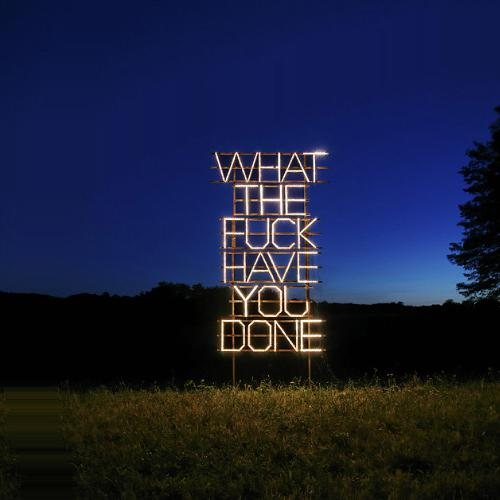
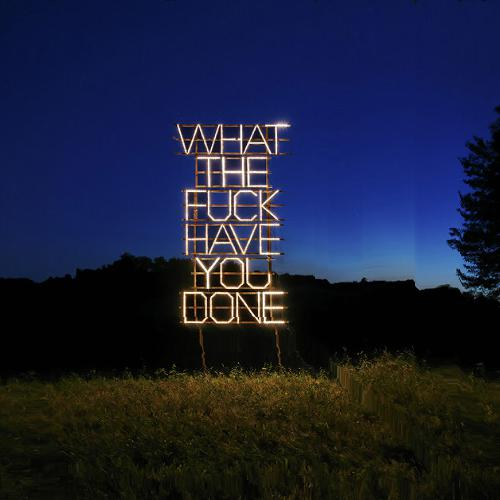
increasing image size improved

diff --git a/seam_carving.py b/seam_carving.py
@@ -9,41 +9,47 @@ class SeamCarver:
         self.image = Image.from_file(image_file)
         self.debug_animation = AnimationMaker()
 
-    def seam(self):
+    def seams(self, n):
         """
-        Finds the shortest path
+        Finds the n minimum seams in the image
+        :param n: the number of paths to be found
+        :return a list of Image objects, each containing the a path, sorted ascending
         """
         image = self.image.min_energy
-        seam_image = np.zeros((self.image.height, 1))
-        for i in reversed(range(0, self.image.height)):
-            if i == self.image.height - 1:
-                value = min(image[i, :])
-                j = np.where(image[i][:] == value)[0][0]
-            else:
-                if seam_image[i + 1, 0] == 0:
-                    tmp = [
-                        float("Inf"),
-                        image[i, seam_image[i + 1, 0]],
-                        image[i, seam_image[i + 1, 0] + 1]
-                    ]
-                elif seam_image[i + 1, 0] == self.image.width - 1:
-                    tmp = [
-                        image[i, seam_image[i + 1, 0] - 1],
-                        image[i, seam_image[i + 1, 0]],
-                        float("Inf")
-                    ]
+        seams_found = []
+        for iteration in range(n):
+            seam_image = np.zeros((self.image.height, 1))
+            for i in reversed(range(0, self.image.height)):
+                if i == self.image.height - 1:
+                    value = min(image[i, :])
+                    j = np.where(image[i][:] == value)[0][0]
                 else:
-                    tmp = [
-                        image[i, seam_image[i + 1, 0] - 1],
-                        image[i, seam_image[i + 1, 0]],
-                        image[i, seam_image[i + 1, 0] + 1]
-                    ]
-                j = seam_image[i+1, 0] + np.argmin(tmp) - 1
-            seam_image[i, 0] = j
-        return Image.from_image_array(array=seam_image, transposed=self.image.transposed)
+                    if seam_image[i + 1, 0] == 0:
+                        tmp = [
+                            float("Inf"),
+                            image[i, seam_image[i + 1, 0]],
+                            image[i, seam_image[i + 1, 0] + 1]
+                        ]
+                    elif seam_image[i + 1, 0] == self.image.width - 1:
+                        tmp = [
+                            image[i, seam_image[i + 1, 0] - 1],
+                            image[i, seam_image[i + 1, 0]],
+                            float("Inf")
+                        ]
+                    else:
+                        tmp = [
+                            image[i, seam_image[i + 1, 0] - 1],
+                            image[i, seam_image[i + 1, 0]],
+                            image[i, seam_image[i + 1, 0] + 1]
+                        ]
+                    j = seam_image[i+1, 0] + np.argmin(tmp) - 1
+                seam_image[i, 0] = j
+                image[i, j] = float("Inf")
+            seams_found.append(Image.from_image_array(array=seam_image, transposed=self.image.transposed))
+        return seams_found
 
     def cut_seam(self):
-        seam = self.seam()
+        seam = self.seams(1)[0]
         result = np.zeros((self.image.height, self.image.width - 1, self.image.dim))
         for i in range(0, self.image.dim):
             for j in range(0, self.image.height):
@@ -63,8 +69,7 @@ class SeamCarver:
 
         return Image.from_image_array(array=result, transposed=self.image.transposed)
 
-    def add_seam(self):
-        seam = self.seam()
+    def add_seam(self, seam):
         result = np.zeros((self.image.height, self.image.width + 1, self.image.dim))
         for i in range(0, self.image.dim):
             for j in range(0, self.image.height):
@@ -95,10 +100,11 @@ class SeamCarver:
 
     def add_seams(self, desired_width):
         iterations = desired_width - self.image.width
+        seams = self.seams(iterations)
         current_iteration = 0
         while current_iteration < iterations:
             print("Resizing from %s to %s" % (self.image.width, self.image.width+1))
-            self.image = self.add_seam()
+            self.image = self.add_seam(seams[current_iteration])
             current_iteration += 1
 
     def resize(self, desired_width, desired_height):

diff --git a/README.md b/README.md
@@ -58,7 +58,6 @@ Adding new seams is a more tricky part. Insertion of new seams can be thought of
 ![animation resize to bigger](https://github.com/4gn3s/seam-carving/raw/master/static/bigger.gif)
 
 ## Todo
-* better seam insertion algorithm (to prevent inserting the same seam again and again)
 * algorithm choosing the currently optimal horizontal/vertical seam to remove
 * add mask processing to allow object removal (mask defines an area with energy equal to zero)
 * seam carving for videos: add another dimension time *t*
